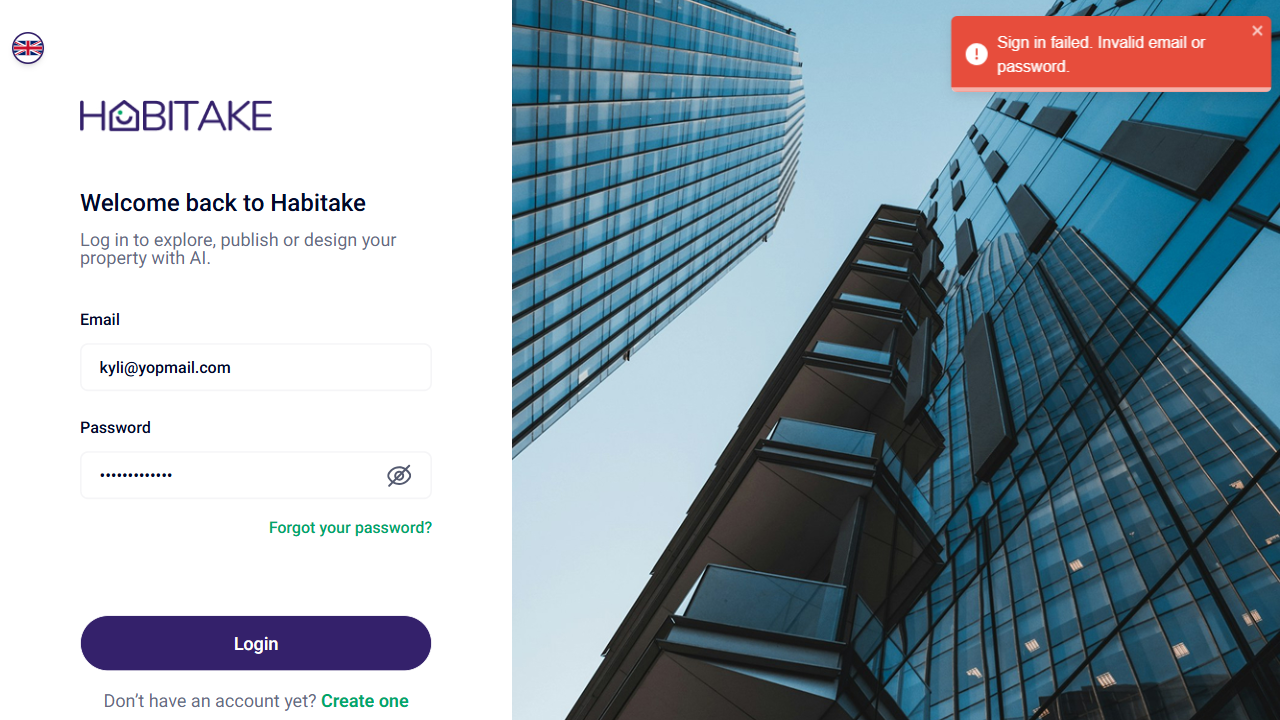
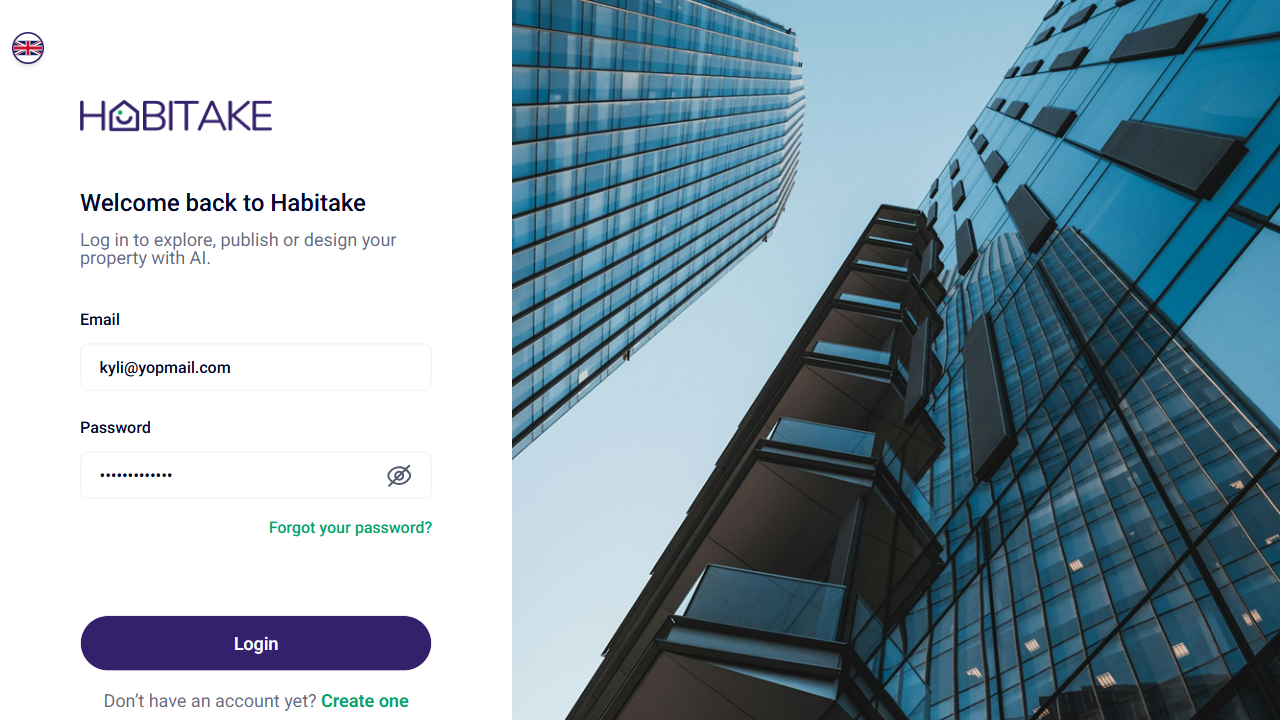
Added screenshots and test data folders

Changed region(s): [[0.7188, 0.0, 1.0, 0.1528]]

diff --git a/pages/add_property_page.py b/pages/add_property_page.py
@@ -155,7 +155,7 @@ class AddPropertyPage(BasePage):
 
     def upload_image(self):
 
-        file_path = os.path.abspath("test_data/test_image2.jpg")
+        file_path = os.path.abspath("Playwright Habitake/test_data/test_image2.jpg")
 
         self.page.set_input_files("input[type='file']", file_path)
 
@@ -260,6 +260,6 @@ class AddPropertyPage(BasePage):
 
             print("Success Message Displayed")
 
-        self.page.screenshot(path="property_submit.png", full_page=True)
+        self.page.screenshot(path="Playwright Habitake/screenshots/property_submit.png", full_page=True)
 
         print("Property Submitted Successfully")

diff --git a/pages/home_page.py b/pages/home_page.py
@@ -64,7 +64,7 @@ class HomePage(BasePage):
 
             # Screenshot
             self.page.screenshot(
-                path="property_success_popup.png",
+                path="Playwright Habitake/screenshots/property_success_popup.png",
                 full_page=True
             )
 

diff --git a/tests/test_empty_login.py b/tests/test_empty_login.py
@@ -39,7 +39,7 @@ def test_empty_login(page):
 
     # Screenshot
     page.screenshot(
-        path="empty_login.png",
+        path="Playwright Habitake/screenshots/empty_login.png",
         full_page=True
     )
 

diff --git a/tests/test_home_page_elements.py b/tests/test_home_page_elements.py
@@ -53,7 +53,7 @@ def test_home_page_elements(page):
     # ====================================
 
     page.screenshot(
-        path="home_page_elements.png",
+        path="Playwright Habitake/screenshots/home_page_elements.png",
         full_page=True
     )
 

diff --git a/tests/test_invalid_email_format.py b/tests/test_invalid_email_format.py
@@ -51,7 +51,7 @@ def test_invalid_email_format(page):
     )
 
     page.screenshot(
-        path="invalid_email.png",
+        path="Playwright Habitake/screenshots/invalid_email.png",
         full_page=True
     )
 

diff --git a/tests/test_invalid_login.py b/tests/test_invalid_login.py
@@ -67,7 +67,7 @@ def test_invalid_login(page):
 
     # Screenshot
     page.screenshot(
-        path="invalid_login.png",
+        path="Playwright Habitake/screenshots/invalid_login.png",
         full_page=True
     )
 

diff --git a/tests/test_logout.py b/tests/test_logout.py
@@ -47,7 +47,7 @@ def test_logout(page):
 
     # Screenshot
     page.screenshot(
-        path="logout_success.png",
+        path="Playwright Habitake/screenshots/logout_success.png",
         full_page=True
     )
 

diff --git a/tests/test_multiple_property_creation.py b/tests/test_multiple_property_creation.py
@@ -50,6 +50,6 @@ def test_multiple_property_creation(page):
     )
 
     page.screenshot(
-        path="multiple_property.png",
+        path="Playwright Habitake/screenshots/multiple_property.png",
         full_page=True
     )

diff --git a/tests/test_password_validation.py b/tests/test_password_validation.py
@@ -68,7 +68,7 @@ def test_password_validation(page):
 
     # Screenshot
     page.screenshot(
-        path="password_validation.png",
+        path="Playwright Habitake/screenshots/password_validation.png",
         full_page=True
     )
 

diff --git a/tests/test_property_type_selection.py b/tests/test_property_type_selection.py
@@ -162,7 +162,7 @@ def test_property_type_selection(page):
     # ====================================
 
     page.screenshot(
-        path="random_property_created.png",
+        path="Playwright Habitake/screenshots/random_property_created.png",
         full_page=True
     )
 

diff --git a/tests/test_property_without_image.py b/tests/test_property_without_image.py
@@ -94,7 +94,7 @@ def test_property_without_image(page):
     # ====================================
 
     page.screenshot(
-        path="property_without_image.png",
+        path="Playwright Habitake/screenshots/property_without_image.png",
         full_page=True
     )
 

diff --git a/tests/test_property_without_price.py b/tests/test_property_without_price.py
@@ -56,6 +56,6 @@ def test_property_without_price(page):
     )
 
     page.screenshot(
-        path="property_without_price.png",
+        path="Playwright Habitake/screenshots/property_without_price.png",
         full_page=True
     )